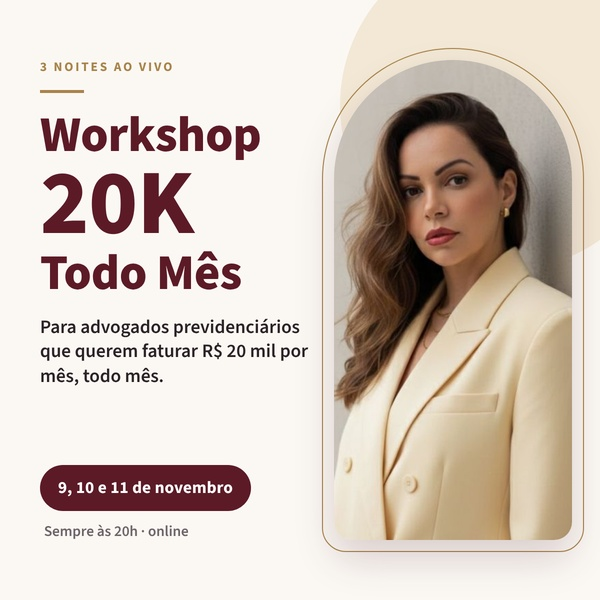
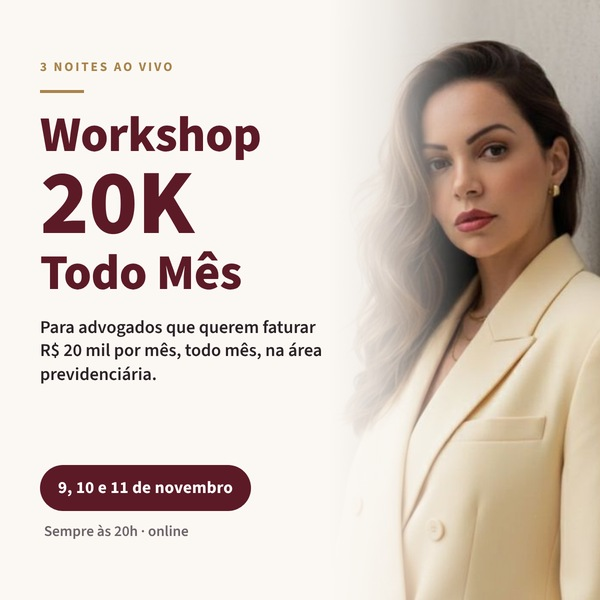
Add files via upload

diff --git a/index.html b/index.html
@@ -1,4 +1,4 @@
-<!doctype html><html lang="pt-BR"><head><meta charset="utf-8"><meta name="viewport" content="width=device-width,initial-scale=1,viewport-fit=cover"><style>:root{padding-top:env(safe-area-inset-top,0px);padding-bottom:env(safe-area-inset-bottom,0px)}body{margin:0}img{max-width:100%}[hidden]{display:none!important}</style><title>Workshop 20K Todo Mês</title><meta name="description" content="3 noites ao vivo para advogados previdenciários montarem o plano para faturar R$ 20 mil por mês, todo mês. 9, 10 e 11 de novembro, às 20h."><meta property="og:type" content="website"><meta property="og:url" content="https://costagalvaoadv.github.io/Workshop20k/"><meta property="og:title" content="Workshop 20K Todo Mês"><meta property="og:description" content="3 noites ao vivo para advogados previdenciários montarem o plano para faturar R$ 20 mil por mês, todo mês. 9, 10 e 11 de novembro, às 20h."><meta property="og:image" content="https://costagalvaoadv.github.io/Workshop20k/capa.jpg"><meta property="og:image:width" content="600"><meta property="og:image:height" content="600"><meta name="twitter:card" content="summary_large_image"><meta name="claude:viewport-fit-sides" content="cover"><link rel="preconnect" href="https://fonts.googleapis.com"><link rel="preconnect" href="https://fonts.gstatic.com" crossorigin><link rel="stylesheet" href="https://fonts.googleapis.com/css2?family=Source+Sans+3:ital,wght@0,400;0,500;0,600;0,700;0,800;1,400&display=swap"></head><body>
+<!doctype html><html lang="pt-BR"><head><meta charset="utf-8"><meta name="viewport" content="width=device-width,initial-scale=1,viewport-fit=cover"><style>:root{padding-top:env(safe-area-inset-top,0px);padding-bottom:env(safe-area-inset-bottom,0px)}body{margin:0}img{max-width:100%}[hidden]{display:none!important}</style><title>Workshop 20K Todo Mês</title><meta name="description" content="3 noites ao vivo para advogados previdenciários montarem o plano para faturar R$ 20 mil por mês, todo mês. 9, 10 e 11 de novembro, às 20h."><meta property="og:type" content="website"><meta property="og:url" content="https://costagalvaoadv.github.io/Workshop20k/"><meta property="og:title" content="Workshop 20K Todo Mês"><meta property="og:description" content="3 noites ao vivo para advogados previdenciários montarem o plano para faturar R$ 20 mil por mês, todo mês. 9, 10 e 11 de novembro, às 20h."><meta property="og:image" content="https://costagalvaoadv.github.io/Workshop20k/capa.jpg"><meta property="og:image:width" content="600"><meta property="og:image:height" content="600"><meta name="twitter:card" content="summary_large_image"><meta name="claude:viewport-fit-sides" content="cover"><link rel="preconnect" href="https://fonts.googleapis.com"><link rel="preconnect" href="https://fonts.gstatic.com" crossorigin><link rel="stylesheet" href="https://fonts.googleapis.com/css2?family=Source+Sans+3:ital,wght@0,400;0,500;0,600;0,700;0,800;1,400&display=swap"><script>!function(f,b,e,v,n,t,s){if(f.fbq)return;n=f.fbq=function(){n.callMethod?n.callMethod.apply(n,arguments):n.queue.push(arguments)};if(!f._fbq)f._fbq=n;n.push=n;n.loaded=!0;n.version='2.0';n.queue=[];t=b.createElement(e);t.async=!0;t.src=v;s=b.getElementsByTagName(e)[0];s.parentNode.insertBefore(t,s)}(window,document,'script','https://connect.facebook.net/en_US/fbevents.js');fbq('init','980682509472803');fbq('track','PageView');</script></head><body><noscript><img height="1" width="1" style="display:none" alt="" src="https://www.facebook.com/tr?id=980682509472803&ev=PageView&noscript=1"></noscript>
 <style>
 /* Layout: faixa marsala de abertura, seções em coluna única de leitura com grades de 3 cartões; barra fixa de compra no celular */
 :root {
@@ -302,7 +302,7 @@ footer a { color: inherit; }
   var CHECKOUT_URL = "https://pay.hotmart.com/W108080879B";
   var fallback = "https://wa.me/5587998094537?text=" + encodeURIComponent("Quero meu ingresso do Workshop 20K Todo Mês");
   var href = CHECKOUT_URL || fallback;
-  document.querySelectorAll(".buy-link").forEach(function (a) { a.href = href; });
+  document.querySelectorAll(".buy-link").forEach(function (a) { a.href = href; a.addEventListener("click", function () { try { if (window.fbq) fbq("track", "InitiateCheckout", { value: 47, currency: "BRL", content_name: "Workshop 20K Todo Mês" }); } catch (e) {} }); });
 })();
 </script>
 </body></html>
